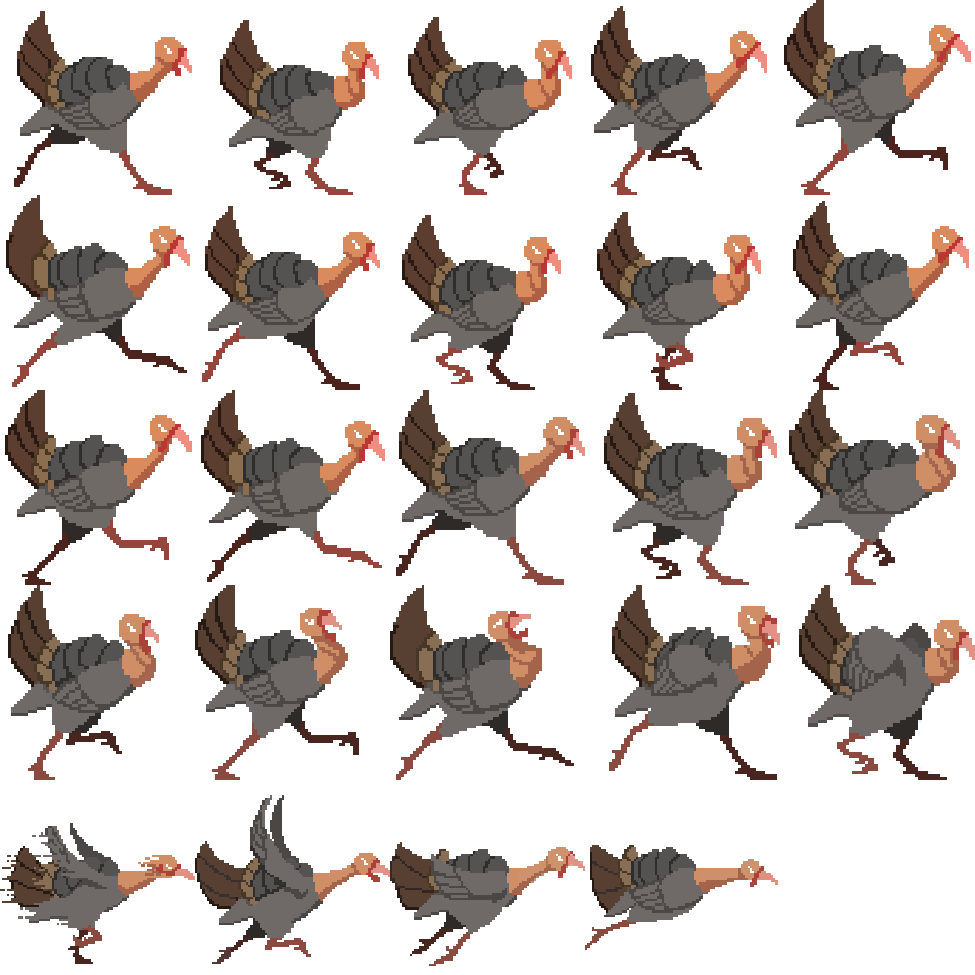
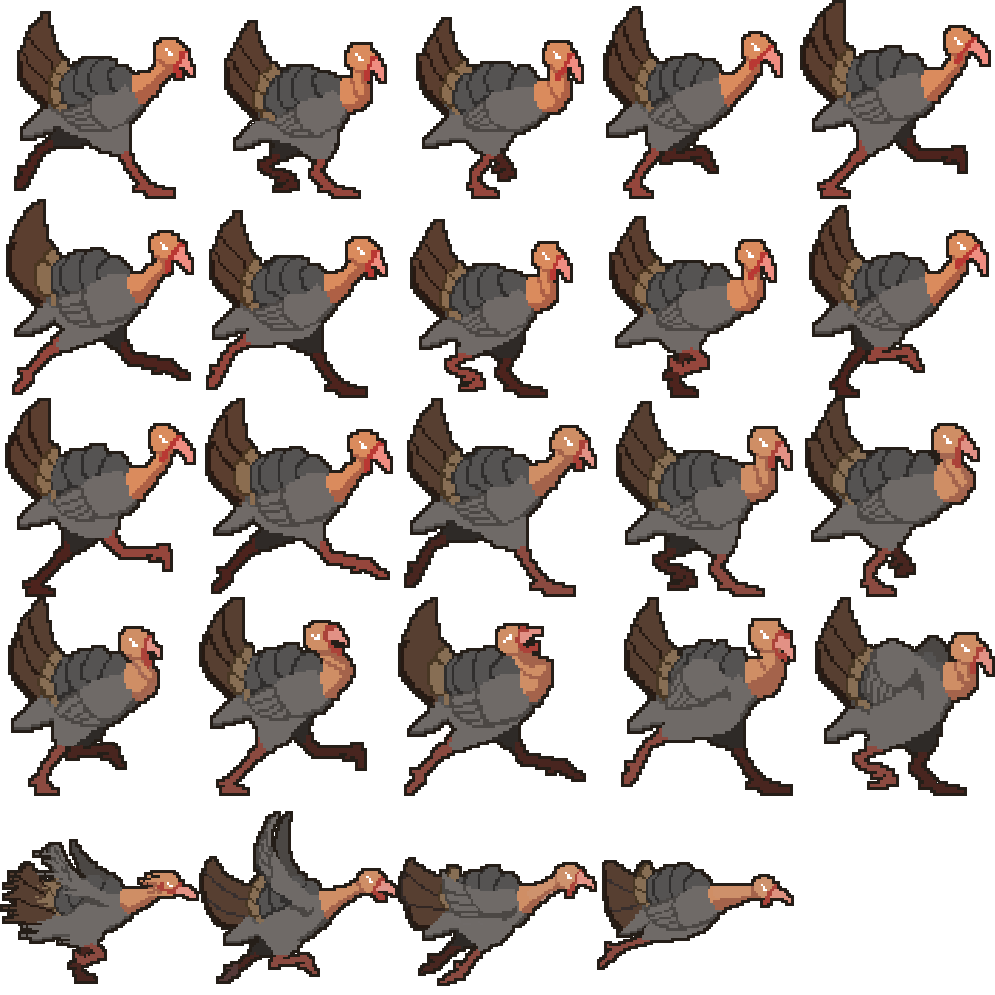
Second wave of art assets

Changed region(s): [[0.0, 0.0, 1.0, 1.0], [0.4923, 0.9231, 0.5231, 0.9538]]

diff --git a/src/scenes/Play.js b/src/scenes/Play.js
@@ -4,13 +4,16 @@ class Play extends Phaser.Scene {
   }
   
   preload() {
-    this.load.spritesheet('ground', './assets/ground-sheet.png', {frameWidth: 50, frameHeight: 50, startFrame: 0, endFrame: 8});
-    //this.load.spritesheet('runner', './assets/player.png', {frameWidth: 40, frameHeight: 80, startFrame: 0, endFrame: 1});
+    this.load.spritesheet('ground', './assets/ground_tile2.png', {frameWidth: 99, frameHeight: 99, startFrame: 0, endFrame: 10});
     this.load.atlas('runner_atlas', './assets/playersheet.png', './assets/playersheet.json');
     this.load.image('jumpObs', './assets/obstacle1.png');
     this.load.image('slideObs', './assets/obstacle2.png');
-    // this.load.image('turkey', './assets/turkey.png');
-    // this.load.image('fireball', './assets/fireball.png');
+    this.load.image('skyBG', './assets/sky_layer.png');
+    this.load.image('treeFront', './assets/wip.png');
+    this.load.image('treeLeaf', './assets/wip2.png');
+    this.load.image('treeBG0', './assets/trees_layer_0.png');
+    this.load.image('treeBG1', './assets/trees_layer_1.png');
+    this.load.image('treeBG2', './assets/trees_layer_2.png');
     this.load.atlas('turkey_atlas', './assets/turkey_sheet.png', './assets/turkey_sheet.json')
     this.load.audio('jump', './assets/jump.wav');
     this.load.audio('hurt', './assets/hurt.wav');
@@ -36,6 +39,16 @@ class Play extends Phaser.Scene {
     }
     this.add.text( 20,20, 'Play', tempConfig);
 
+    // Background creation
+    this.sky = this.add.tileSprite(0, 0, game.config.width, game.config.height, 'skyBG').setOrigin(0, 0);
+    this.treeL2 = this.add.tileSprite(0, 0, game.config.width, game.config.height, 'treeBG2').setOrigin(0, 0);
+    this.treeL1 = this.add.tileSprite(0, 0, game.config.width, game.config.height, 'treeBG1').setOrigin(0, 0);
+    this.treeL0 = this.add.tileSprite(0, 0, game.config.width, game.config.height, 'treeBG0').setOrigin(0, 0);
+    this.treeFront = this.add.tileSprite(0, 0, game.config.width, game.config.height, 'treeFront').setOrigin(0, 0);
+    this.treeLeaf = this.add.tileSprite(0, 0, game.config.width, game.config.height, 'treeLeaf').setOrigin(0, 0);
+    this.treeFront.setDepth(2)
+    this.treeLeaf.setDepth(2)
+
     // Score
     this.playerScore = 0
     let tempScoreConfig = {
@@ -57,7 +70,7 @@ class Play extends Phaser.Scene {
     // Create ground
     this.anims.create({
       key: 'groundAnim',
-      frames: this.anims.generateFrameNumbers('ground', { frames: [ 0, 1, 2, 3, 4, 5, 6, 7, 8 ] }),
+      frames: this.anims.generateFrameNumbers('ground', { frames: [ 0, 1, 2, 3, 4, 5, 6, 7, 8, 9, 10 ] }),
       frameRate: 60,
       repeat: -1
     });
@@ -84,8 +97,6 @@ class Play extends Phaser.Scene {
     // Create Obstacles
     this.obstacles = new ObstacleManager(this, ['jumpObs', 'slideObs']);
     
-    // Create first obstacle
-    this.obstacles.addObstacle();
     this.timeSinceLastObstacle = 0;
     // Incrementing numbers for obstacle spawns
     this.speedMod = 1;
@@ -116,6 +127,14 @@ class Play extends Phaser.Scene {
       this.turkey.play('turkeyRun', true);
     }
 
+    // Scroll BG
+    this.sky.tilePositionX += 3;
+    this.treeFront.tilePositionX += 7;
+    this.treeLeaf.tilePositionX += 7;
+    this.treeL0.tilePositionX += 5;
+    this.treeL1.tilePositionX += 3;
+    this.treeL2.tilePositionX += 1;
+
     // Main block while gameplay is active
     if(!this.gameOver) {
       if(!this.playerHit) this.runner.update(time, delta);
@@ -128,7 +147,7 @@ class Play extends Phaser.Scene {
       // Spawning and updating obstacles or turkey attacks, whichever is active
       if(this.turkeyActive && this.obstacles.activeObstacleGroup.getLength() == 0) {
         this.turkey.update(time, delta);
-      } else if(this.obstacles.activeObstacleGroup.getLength() == 0 && this.timeSinceLastObstacle > game.settings.obstacleMinSpawnTime){
+      } else if(this.obstacles.activeObstacleGroup.getLength() == 0 && this.timeSinceLastObstacle > game.settings.obstacleMinSpawnTime) {
         this.obstacles.addObstacle();
         this.timeSinceLastObstacle = 0;
       }

diff --git a/src/prefabs/Turkey.js b/src/prefabs/Turkey.js
@@ -8,7 +8,7 @@ class Turkey extends Phaser.Physics.Arcade.Sprite {
         scene.anims.create({
             key: 'turkeyRun',
             frames: this.anims.generateFrameNames(texture, {
-                prefix: 'turkey_sheet ',
+                prefix: 'turkey_sheetOutline ',
                 start: 0,
                 end: 11,
                 suffix: '.ase',
@@ -19,7 +19,7 @@ class Turkey extends Phaser.Physics.Arcade.Sprite {
         scene.anims.create({
             key: 'turkeyFlyStart',
             frames: this.anims.generateFrameNames(texture, {
-                prefix: 'turkey_sheet ',
+                prefix: 'turkey_sheetOutline ',
                 start: 12,
                 end: 20,
                 suffix: '.ase',
@@ -30,7 +30,7 @@ class Turkey extends Phaser.Physics.Arcade.Sprite {
         scene.anims.create({
             key: 'turkeyFly',
             frames: this.anims.generateFrameNames(texture, {
-                prefix: 'turkey_sheet ',
+                prefix: 'turkey_sheetOutline ',
                 start: 21,
                 end: 24,
                 suffix: '.ase',

diff --git a/src/prefabs/ObstacleManager.js b/src/prefabs/ObstacleManager.js
@@ -26,10 +26,10 @@
     addObstacle() {
         let obstacle;
         if(Phaser.Math.Between(0,1)) {
-            obstacle = this.activeObstacleGroup.create(game.config.width, game.config.height - groundSize*4.5, this.textures[1]).setOrigin(0); // NOTE: Y param is placeholder value
+            obstacle = this.activeObstacleGroup.create(game.config.width, game.config.height - groundSize*5.25, this.textures[1]).setOrigin(1); // NOTE: Y param is placeholder value
             obstacle.canSlide = true;
         } else {
-            obstacle = this.activeObstacleGroup.create(game.config.width, game.config.height - groundSize*2, this.textures[0]).setOrigin(0); // NOTE: Y param is placeholder value
+            obstacle = this.activeObstacleGroup.create(game.config.width, game.config.height - groundSize, this.textures[0]).setOrigin(1); // NOTE: Y param is placeholder value
             obstacle.canSlide = false;
         }
         // console.log(obstacle.body.velocity);

diff --git a/src/scenes/Menu.js b/src/scenes/Menu.js
@@ -39,7 +39,7 @@ class Menu extends Phaser.Scene {
             swapTime: 8000,
             minSwapTime: 3000,
             maxSwapTime: 16000,
-            turkeyPosition: 10,
+            turkeyPosition: 100,
             turkeyRushCooldown: 500
         }
     }
